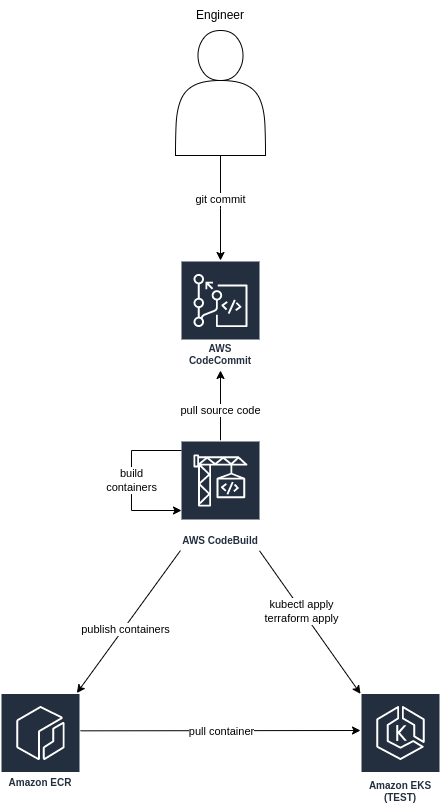
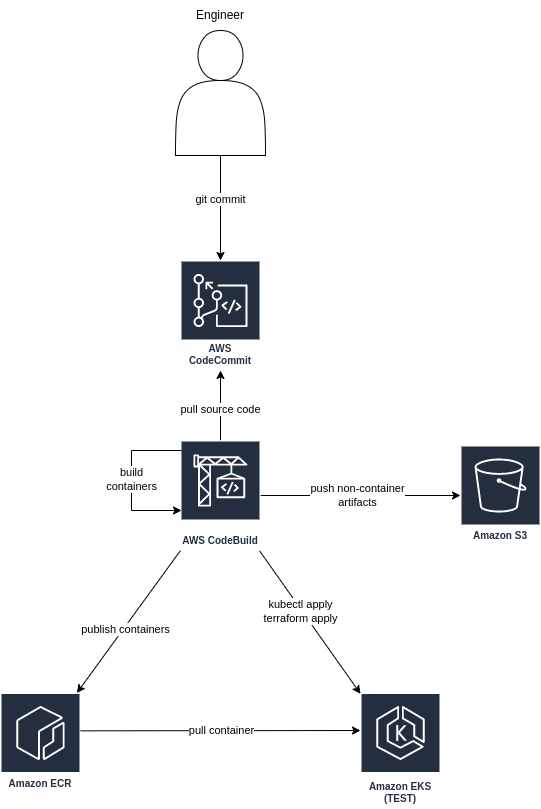
Updated the deployment diagrams to include s3, and concluded the section on security.

diff --git a/README.md b/README.md
@@ -1,3 +1,4 @@
+# Overview #
 ## Starting the Demo ##
 - Open this solution in VS Code
 - Assuming you have the Remote Development extension installed, Command Palette --> Reopen and Rebuild in Container.
@@ -7,19 +8,62 @@
 - You can interact with the 'rails' app at http://localhost/
 - You can interact with the navigation service at http://localhost/nav/{lat1}/{lon1}/{lat2}/{lon2}
 - An example GET request for the nav service is http://localhost/nav/8.676581/49.418204/8.692803/49.409465
-## Architecture ##
+## Architecture as Coded ##
 The demo consists of three major subsystems:
 * ORS Service (ors)
 * App Web Application (app)
 * Navigation Service (navsvc)
 
-It runs in KinD when running it on your local machine.
+It runs in KinD when running it on your local machine, and looks like this:
 
 ![Demo Arch on KinD](https://github.com/depinore2/alltrails_takehome/raw/master/docs/alltrails-Demo%20Architecture.png)
 
 The "app" is really just a static HTML page hosted in an nginx container.  The assignment specification mentioned that the imaginary rails app was hosted on port 3000, so I configured the nginx container to listen to port 3000 to accomodate this detail.
 
 
+# Security #
+This demo was not built with any security in mind.  All communication is unencrypted using HTTP, and both the app and the navsvc indiscriminately respond to requests.  If this were a real production application, it would be reinforced in three major ways:
+1. All communication internal to the cluster would be encrypted in transit using Istio with Mutual TLS.  All communication external to the cluster would be using HTTPS at minimum.
+1. All requests to either the rails application or the navsvc would require application-level authentication using an SSO provider over OpenID Connect.
+1. Any infrastructure supporting the kubernetes cluster (such as cloud resources) would be locked down using Identity and Access Management policies.
+
+## Security at the Network Level ##
+All communication needs to be encrypted as it traverses the network.  To achieve this, all ingress traffic coming into the cluster would need to use HTTPS over port 443. If port 80 is left open at the ingress controller, it would only serve as a means to serve HTTP 301 redirection to port 443.
+
+Communication within the cluster would leverage Istio (and implicitly Envoy).  Istio would allow us to ensure that all communication between endpoints in the cluster are able to mutually identify one another and encrypt traffic using mutual TLS.  This is all done using sidecar containers at the pod level, bypassing the need to reconfigure any of the individual containers that run our applications.
+
+If we applied the aforementioned changes to the demo architecture, it would look like this:
+
+![Demo Arch With Network Security](https://github.com/depinore2/alltrails_takehome/raw/master/docs/alltrails-Arch%20w_Network%20Security.png)
+
+Note: some details from the previous diagram were omitted for clarity.
+
+## Security at the Application Level ##
+In addition to encrypting traffic for network-level security, we also want to ensure that only users that are authorized to use our applications can access our data.  The most common way to achieve this is to use a Single-Sign On provider such as Okta, AWS Cognito, Apple SSO, or Google SSO--which all communicate over the OpenID Connect protocol.
+
+The pattern tends to look like this, assuming a Single-Page javascript application and a stateless API:
+1. An unauthenticated user makes a request to our rails application.
+1. The rails application checks for the existence of an SSO token identifying them.  
+1. Due to the absence of a token in the HTTP request, the user is navigated to the SSO provider's login page.
+1. The user provides their credentials, and is redirected back to the rails app.
+1. During use of the rails app, the user triggers a javascript `fetch()` request to the navigation API.
+1. The `fetch()` request makes sure to embed an HTTP `Authorization: Bearer <bearer token from SSO>` header, giving the navservice access to the token identifying the user.
+1. Before responding to any requests, the navservice would run a validation procedure directly with the SSO provider from step 3.
+    1. If the user is not authorized to use this endpoint, the endpoint immediately returns with an `HTTP 403 Forbidden`.
+    1. If the user is authorized to use this endpoint, the endpoint continues by sending the appropriate requests to the backing ORS endpoint.
+
+![Demo Arch With Application Security](https://github.com/depinore2/alltrails_takehome/raw/master/docs/alltrails-OIDC%20Security%20View.png)
+
+## Security in the Context of Cloud Infrastructure ##
+Eventually, our system needs to actually run in production infrastructure.  Assuming our infrastructure provider is Amazon Web Services, we would combine all of the above considerations and add AWS IAM, Certificate Manager, and even lock down our S3 buckets like this:
+
+![Demo Arch With Application Security](https://github.com/depinore2/alltrails_takehome/raw/master/docs/alltrails-Full%20Prod%20Arch%20(AWS).png)
+
+The Certificate Manager would offer us a place to store our SSL certificates for use in both the Istio control plane and in the AWS Application Load Balancer handling ingress requests.
+
+AWS STS would be used in conjunction with AWS IAM to grant EKS the ability to provision cluster nodes with access to the AWS infrastructure.  This will be useful when fetching things such as OSM files from AWS S3.  Note: it's assumed that the EKS Cluster is configured to use AWS STS as an OIDC provider to allow for node-level role integration.
+
+Not pictured are details regarding VPC security for the sake of brevity.  It's assumed that before deploying to production, the appropriate subnet, internet gateway, nat gateway, and Route 53 infrastructure would be provisioned using either Terraform or CloudFormation to make the system robust at every level.
 
 ## Notes to Self ##
 The following are notes I jotted down as I worked my way through the exercise.  I'm sharing them to give a sense for how my thought process went.
